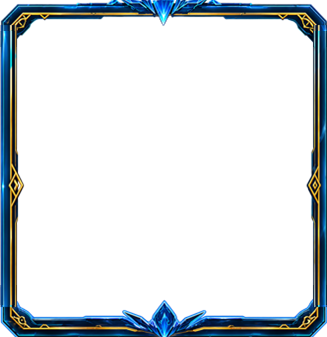
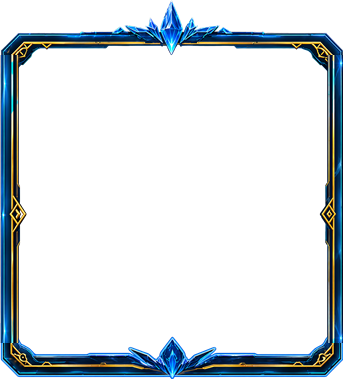
Expand step card frame buffer

Changed region(s): [[0.0, 0.0, 1.0, 1.0]]

diff --git a/styles-neuform.css b/styles-neuform.css
@@ -145,7 +145,10 @@
 #step3::after {
   content: "";
   position: absolute;
-  inset: 0;
+  top: -24px;
+  right: -8px;
+  bottom: -18px;
+  left: -8px;
   width: auto;
   height: auto;
   z-index: 1;
